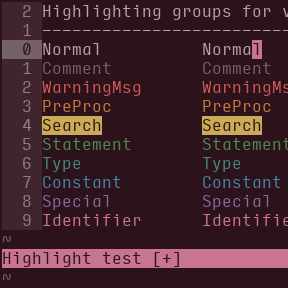
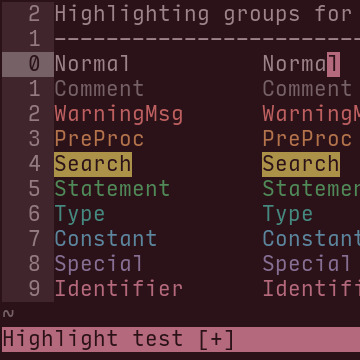
overhaul

diff --git a/README.md b/README.md
@@ -7,8 +7,8 @@
 <table>
 <tr><td align="center"><strong>strawberry-dark</strong></td><td align="center"><strong>strawberry-light</strong></td></tr>
 <tr>
-<td><img src="/img/screenshot-strawberry-dark.png" alt="screenshot of the strawberry-dark vim theme" width="288" /></td>
-<td align="center"><img src="/img/screenshot-strawberry-light.png" alt="screenshot of the strawberry-light vim theme" width="288" /></td>
+<td><img src="/img/screenshot-strawberry-dark.png" alt="screenshot of the strawberry-dark vim theme" width="360" /></td>
+<td align="center"><img src="/img/screenshot-strawberry-light.png" alt="screenshot of the strawberry-light vim theme" width="360" /></td>
 </tr>
 </table>
 
